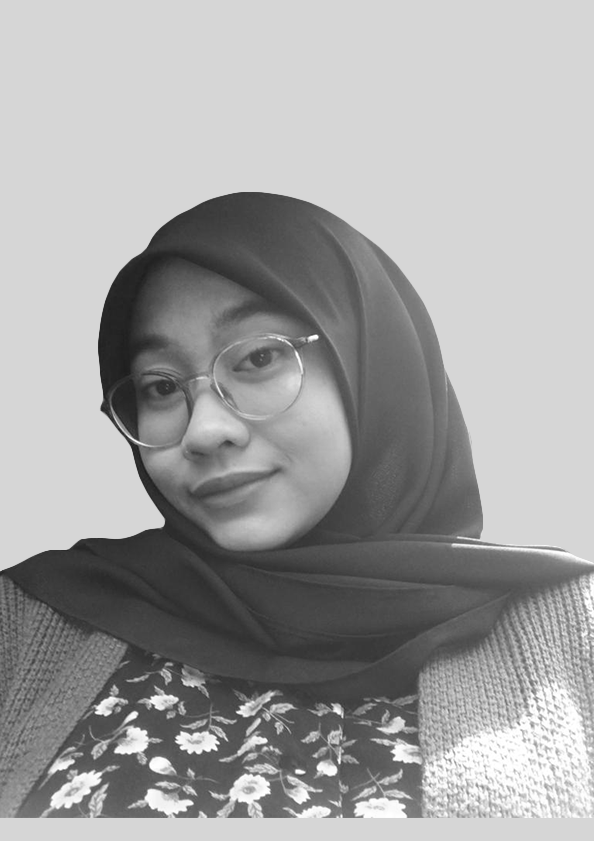
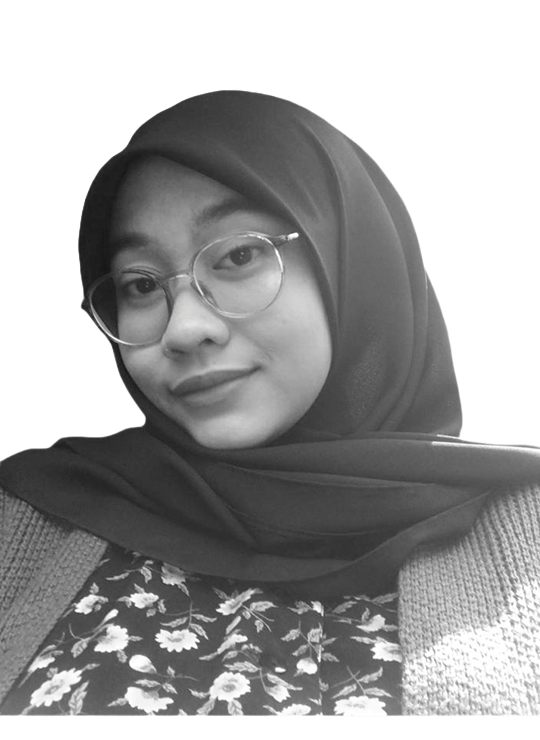
update 16/3

diff --git a/index.html b/index.html
@@ -194,7 +194,7 @@
             <p> Duis aute irure dolor in reprehenderit in voluptate velit esse cillum dolore eu fugiat nulla pariatur. Excepteur sint occaecat cupidatat non proident, sunt in culpa qui officia deserunt mollit anim id est laborum.</p>
           </div>
           <div class="col-lg-3 cta-btn-container text-center">
-            <a class="cta-btn align-middle" href="#">Call To Action</a>
+            <a class="cta-btn align-middle" href="#contact">Call To Action</a>
           </div>
         </div>
 
@@ -214,7 +214,7 @@
 
           <div class="col-lg-2 col-md-6">
             <div class="member" data-aos="zoom-in">
-              <div class="pic"><img src="assets/img/team/helmy.jpeg" class="img-fluid" alt="" style="width: 97%;"></div>
+              <div class="pic"><img src="assets/img/team/Helmy1.png" class="img-fluid" alt="" style="height: 97%;"></div>
               <div class="member-info">
                 <h4>Helmy Wahyudi</h4>
                 <span>Web Developer</span>
@@ -224,9 +224,9 @@
 
           <div class="col-lg-2 col-md-6">
             <div class="member" data-aos="zoom-in" data-aos-delay="100">
-              <div class="pic"><img src="assets/img/team/citra.png" class="img-fluid" alt="" style="width: 87%;"></div>
+              <div class="pic"><img src="assets/img/team/citra.png" class="img-fluid" alt="" style="height: 87%; width: 95%;"></div>
               <div class="member-info">
-                <h4>Citra</h4>
+                <h4>Prasasti Citra Putri P</h4>
                 <span>Business Development</span>
               </div>
             </div>
@@ -234,7 +234,7 @@
 
           <div class="col-lg-2 col-md-6">
             <div class="member" data-aos="zoom-in" data-aos-delay="200">
-              <div class="pic"><img src="assets/img/team/Syalma 1.jpeg" class="img-fluid" alt=""></div>
+              <div class="pic"><img src="assets/img/team/Syalma2.jpeg" class="img-fluid" alt="" style="height: 80%;"></div>
               <div class="member-info">
                 <h4>Syalma Nabila K</h4>
                 <span>CTO</span>
@@ -278,7 +278,7 @@
         <div class="row">
           <div class="col-lg-2 col-md-6">
             <div class="member" data-aos="zoom-in" data-aos-delay="200">
-              <div class="pic"><img src="assets/img/team/team-3.jpg" class="img-fluid" alt=""></div>
+              <div class="pic"><img src="assets/img/team/bayu1.png" class="img-fluid" alt="" style="width: 95%;"></div>
               <div class="member-info">
                 <h4>Bayu Muhammad N</h4>
                 <span>Business Development</span>
@@ -288,13 +288,34 @@
 
         <div class="col-lg-2 col-md-6">
           <div class="member" data-aos="zoom-in" data-aos-delay="200">
-            <div class="pic"><img src="assets/img/team/team-2.jpg" class="img-fluid" alt=""></div>
+            <div class="pic"><img src="assets/img/team/Fany3.png" class="img-fluid" alt="" style="height: 60%; width: 95%;"></div>
             <div class="member-info">
-              <h4>Lorem 2</h4>
+              <h4>Fany Julianto</h4>
+              <span>Business Development</span>
+            </div>
+          </div>
+        </div>
+
+        <div class="col-lg-2 col-md-6">
+          <div class="member" data-aos="zoom-in" data-aos-delay="200">
+            <div class="pic"><img src="assets/img/team/Mariyana Putri.png" class="img-fluid" alt="" style="height: 60%; width: 95%;"></div>
+            <div class="member-info">
+              <h4>Mariyana Putri M</h4>
+              <span>Digital Marketing</span>
+            </div>
+          </div>
+        </div>
+
+        <div class="col-lg-2 col-md-6">
+          <div class="member" data-aos="zoom-in" data-aos-delay="200">
+            <div class="pic"><img src="assets/img/team/ayub1.png" class="img-fluid" alt="" style="height: 60%; width: 95%;"></div>
+            <div class="member-info">
+              <h4>Ayub Rahmanda</h4>
               <span>Web Developer</span>
             </div>
           </div>
         </div>
+
 
         </div>
 
@@ -317,19 +338,19 @@
               <div class="address">
                 <i class="bi bi-geo-alt"></i>
                 <h4>Location:</h4>
-                <p>A108 Adam Street, New York, NY 535022</p>
+                <p>Jl. MT Haryono No.8, Damai, Balikpapan Kota, Kota Balikpapan, Kalimantan Timur 76114</p>
               </div>
 
               <div class="email">
                 <i class="bi bi-envelope"></i>
                 <h4>Email:</h4>
-                <p>info@example.com</p>
+                <p>helmywahyudi0@gmail.com</p>
               </div>
 
               <div class="phone">
                 <i class="bi bi-phone"></i>
                 <h4>Call:</h4>
-                <p>+1 5589 55488 55s</p>
+                <p>+628 5710 8151 59</p>
               </div>
               <iframe src="https://www.google.com/maps/embed?pb=!1m14!1m8!1m3!1d15955.436249093398!2d116.8677802!3d-1.2564277!3m2!1i1024!2i768!4f13.1!3m3!1m2!1s0x0%3A0xd8d6e011aafe971e!2sPT.%20TELKOM%20WILAYAH%206%20KALIMANTAN!5e0!3m2!1sid!2sid!4v1647327905429!5m2!1sid!2sid" style="border:0;  width: 100%; height: 290px;" allowfullscreen="" loading="lazy"></iframe>
             </div>
@@ -337,7 +358,7 @@
           </div>
 
           <div class="col-lg-7 mt-5 mt-lg-0 d-flex align-items-stretch" data-aos="fade-left">
-            <form action="forms/contact.php" method="post" role="form" class="php-email-form">
+            <form class="php-email-form">
               <div class="row">
                 <div class="form-group col-md-6">
                   <label for="name">Your Name</label>
@@ -354,14 +375,17 @@
               </div>
               <div class="form-group mt-3">
                 <label for="name">Message</label>
-                <textarea class="form-control" name="message" rows="10" required></textarea>
-              </div>
-              <div class="my-3">
-                <div class="loading">Loading</div>
-                <div class="error-message"></div>
-                <div class="sent-message">Your message has been sent. Thank you!</div>
-              </div>
-              <div class="text-center"><button type="submit">Send Message</button></div>
+                <textarea class="form-control" name="message" rows="10" id="message" required></textarea>
+                <div class="submit">
+                  <input
+                    type="submit"
+                    class="btn text-white mt-3"
+                    style="background-color: #009cea"
+                    value="Send Message"
+                    onclick="gotowhatsapp()"
+                  />
+                </div>
+             
             </form>
           </div>
 
@@ -380,12 +404,12 @@
 
           <div class="col-lg-3 col-md-6">
             <div class="footer-info">
-              <h3>Scaffold</h3>
+              <h3>SVCC Chapter 6</h3>
               <p>
-                A108 Adam Street <br>
-                NY 535022, USA<br><br>
-                <strong>Phone:</strong> +1 5589 55488 55<br>
-                <strong>Email:</strong> info@example.com<br>
+                Jl. MT Haryono No.8, Damai, Balikpapan Kota, Kota Balikpapan, Kalimantan Timur 76114 <br>
+                <br><br>
+                <strong>Phone:</strong> +628 5710 8151 59<br>
+                <strong>Email:</strong> helmywahyudi0@gmail.com<br>
               </p>
               <div class="social-links mt-3">
                 <a href="#" class="twitter"><i class="bx bxl-twitter"></i></a>
@@ -400,22 +424,21 @@
           <div class="col-lg-2 col-md-6 footer-links">
             <h4>Useful Links</h4>
             <ul>
-              <li><i class="bx bx-chevron-right"></i> <a href="#">Home</a></li>
-              <li><i class="bx bx-chevron-right"></i> <a href="#">About us</a></li>
-              <li><i class="bx bx-chevron-right"></i> <a href="#">Services</a></li>
-              <li><i class="bx bx-chevron-right"></i> <a href="#">Terms of service</a></li>
-              <li><i class="bx bx-chevron-right"></i> <a href="#">Privacy policy</a></li>
+              <li><i class="bx bx-chevron-right"></i> <a href="#hero">Home</a></li>
+              <li><i class="bx bx-chevron-right"></i> <a href="#about">About Us</a></li>
+              <li><i class="bx bx-chevron-right"></i> <a href="#team">Team</a></li>
+              <li><i class="bx bx-chevron-right"></i> <a href="#contact">Contact</a></li>
             </ul>
           </div>
 
           <div class="col-lg-3 col-md-6 footer-links">
             <h4>Our Services</h4>
             <ul>
-              <li><i class="bx bx-chevron-right"></i> <a href="#">Web Design</a></li>
-              <li><i class="bx bx-chevron-right"></i> <a href="#">Web Development</a></li>
-              <li><i class="bx bx-chevron-right"></i> <a href="#">Product Management</a></li>
-              <li><i class="bx bx-chevron-right"></i> <a href="#">Marketing</a></li>
-              <li><i class="bx bx-chevron-right"></i> <a href="#">Graphic Design</a></li>
+              <li><i class="bx bx-chevron-right"></i> <a href="#">Business Development</a></li>
+              <li><i class="bx bx-chevron-right"></i> <a href="#">Digital Marketing</a></li>
+              <li><i class="bx bx-chevron-right"></i> <a href="#">3D Content Creator</a></li>
+              <li><i class="bx bx-chevron-right"></i> <a href="#">Web Developer</a></li>
+             
             </ul>
           </div>
 
@@ -437,10 +460,6 @@
         &copy; Copyright <strong><span>SVCC Chapter 6</span></strong>. All Rights Reserved
       </div>
       <div class="credits">
-        <!-- All the links in the footer should remain intact. -->
-        <!-- You can delete the links only if you purchased the pro version. -->
-        <!-- Licensing information: https://bootstrapmade.com/license/ -->
-        <!-- Purchase the pro version with working PHP/AJAX contact form: https://bootstrapmade.com/scaffold-bootstrap-metro-style-template/ -->
         Designed by <a href="">SVCC Chapter 6</a>
       </div>
     </div>
@@ -458,7 +477,29 @@
 
   <!-- Template Main JS File -->
   <script src="assets/js/main.js"></script>
+  <script>
+    function gotowhatsapp() {
+      var name = document.getElementById("name").value;
+      var email = document.getElementById("email").value;
+      var subject = document.getElementById("subject").value;
+      var message = document.getElementById("message").value;
 
+      var url =
+        "https://wa.me/+6285710815159?text=" +
+        "Name: " +
+        name +
+        "%0a" +
+        "Email: " +
+        email +
+        "%0a" +
+        "Subject: " +
+        subject +
+        "%0a" +
+        "Message: " +
+        message;
+      window.open(url, "_blank").focus();
+    }
+  </script>
 </body>
 
 </html>

diff --git a/assets/css/style.css b/assets/css/style.css
@@ -132,6 +132,7 @@ h6 {
 */
 .navbar {
   padding: 0;
+  margin: 0;
 }
 .navbar ul {
   margin: 0;
@@ -148,7 +149,7 @@ h6 {
   display: flex;
   align-items: center;
   justify-content: space-between;
-  padding: 10px 0 10px 30px;
+  /* padding: 10px 0 10px 30px; */
   font-size: 15px;
   font-family: "Poppins", sans-serif;
   color: #7b909a;
@@ -161,18 +162,21 @@ h6 {
   line-height: 0;
   margin-left: 5px;
 }
-.navbar a:hover,
+.navbar a:hover {
+  color: #fff;
+  background-color: #ff0000;
+}
 .navbar .active,
 .navbar .active:focus,
 .navbar li:hover > a {
-  color: #009cea;
+  color: #13777c;
 }
 
 /**
 * Mobile Navigation 
 */
 .mobile-nav-toggle {
-  color: #364146;
+  color: #000;
   font-size: 28px;
   cursor: pointer;
   display: none;
@@ -270,7 +274,7 @@ h6 {
   border-radius: 3px;
   transition: 0.5s;
   color: #fff;
-  background: #009cea;
+  background: #261769;
 }
 #hero .btn-get-started:hover {
   background: #008bd1;
@@ -332,8 +336,9 @@ section {
   margin-top: 40px;
 }
 .about .container {
-  background-color: #f7f8f9;
+  background-color: #261769;
   padding: 60px 50px;
+  color: white;
 }
 @media (max-width: 992px) {
   .about .container {
@@ -343,7 +348,7 @@ section {
 .about .content h3 {
   font-weight: 400;
   font-size: 32px;
-  color: #364146;
+  color: #ffffff;
   font-family: "Poppins", sans-serif;
 }
 .about .content ul {
@@ -539,7 +544,8 @@ section {
 # Team
 --------------------------------------------------------------*/
 .team {
-  background: url("../img/team-bg.jpg") center center no-repeat;
+  background-color: #132eca;
+  /* background: url("/SVCC/assets/img/background/pasarterapung.png"); */
   background-size: cover;
   padding: 60px 0;
   position: relative;
@@ -571,9 +577,9 @@ section {
   top: 85%;
   left: 20px;
   right: 20px;
-  background: #fff;
+  background: #1d5663;
   padding: 20px 0;
-  color: #364146;
+  color: #ffffff;
   box-shadow: 0px 2px 15px rgba(0, 0, 0, 0.1);
   max-height: 95px;
   overflow: hidden;
@@ -586,7 +592,7 @@ section {
   font-weight: 700;
   margin-bottom: 10px;
   font-size: 16px;
-  color: #364146;
+  color: #e2a06a;
   position: relative;
   padding-bottom: 10px;
 }
